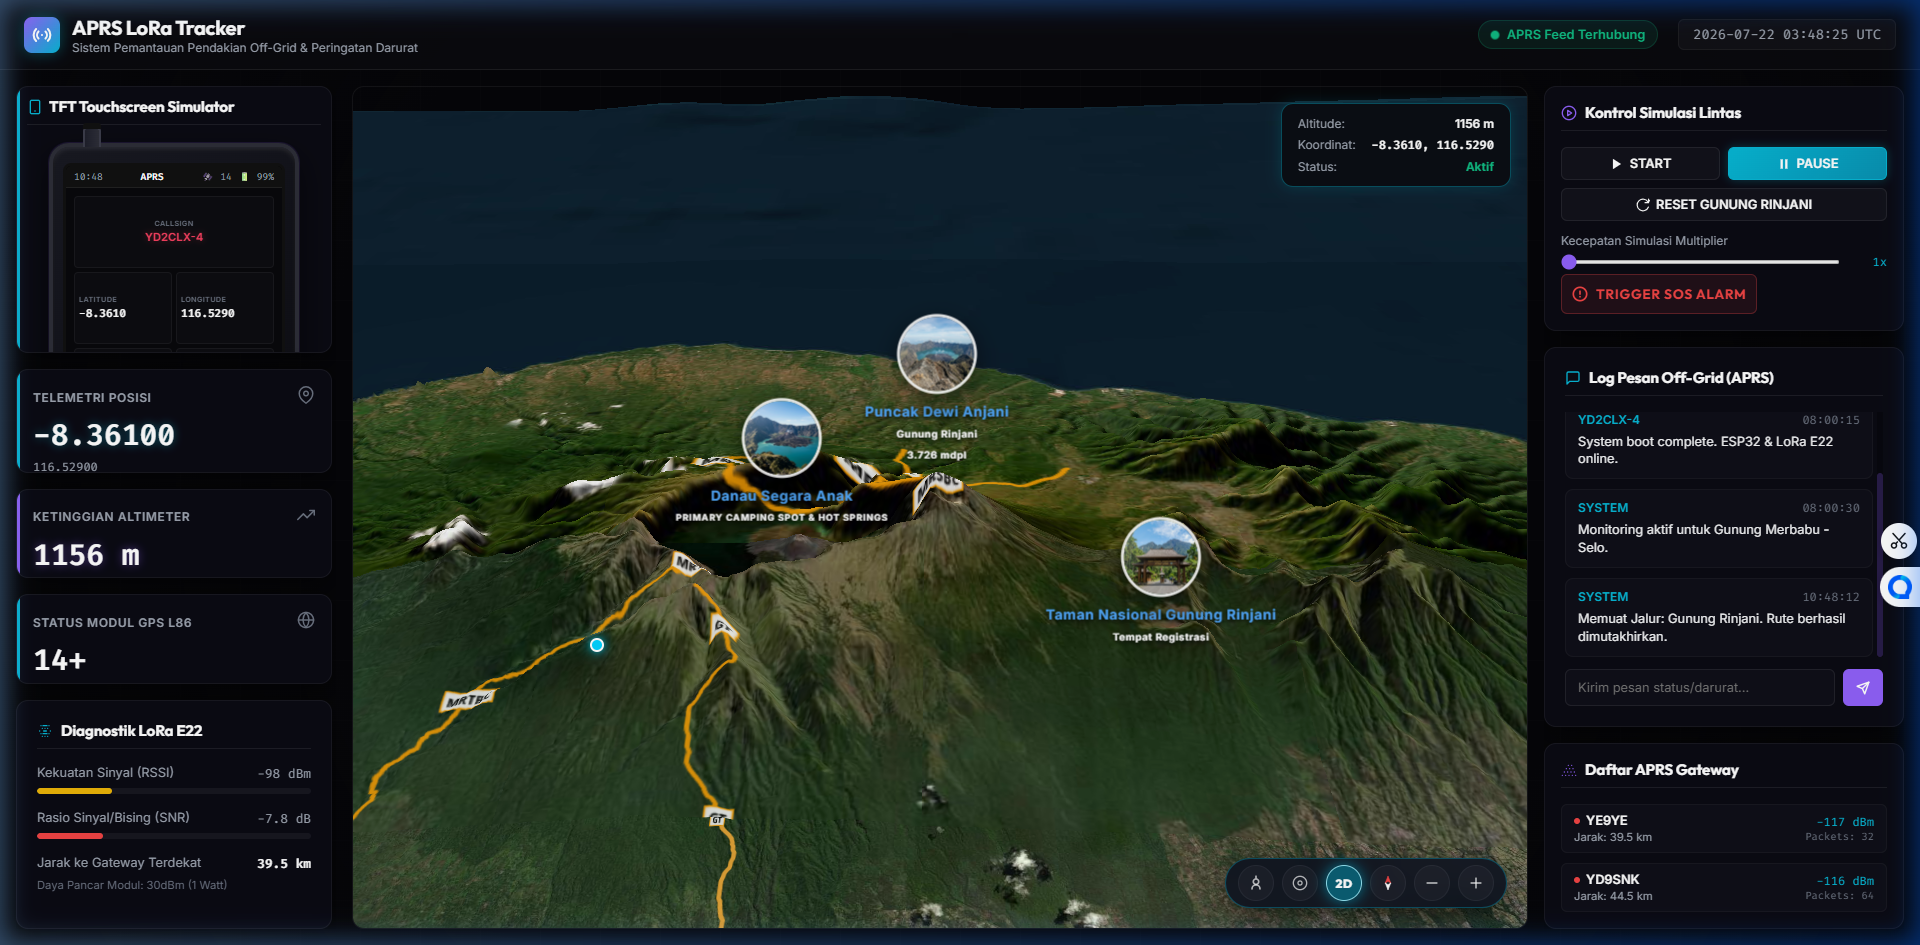
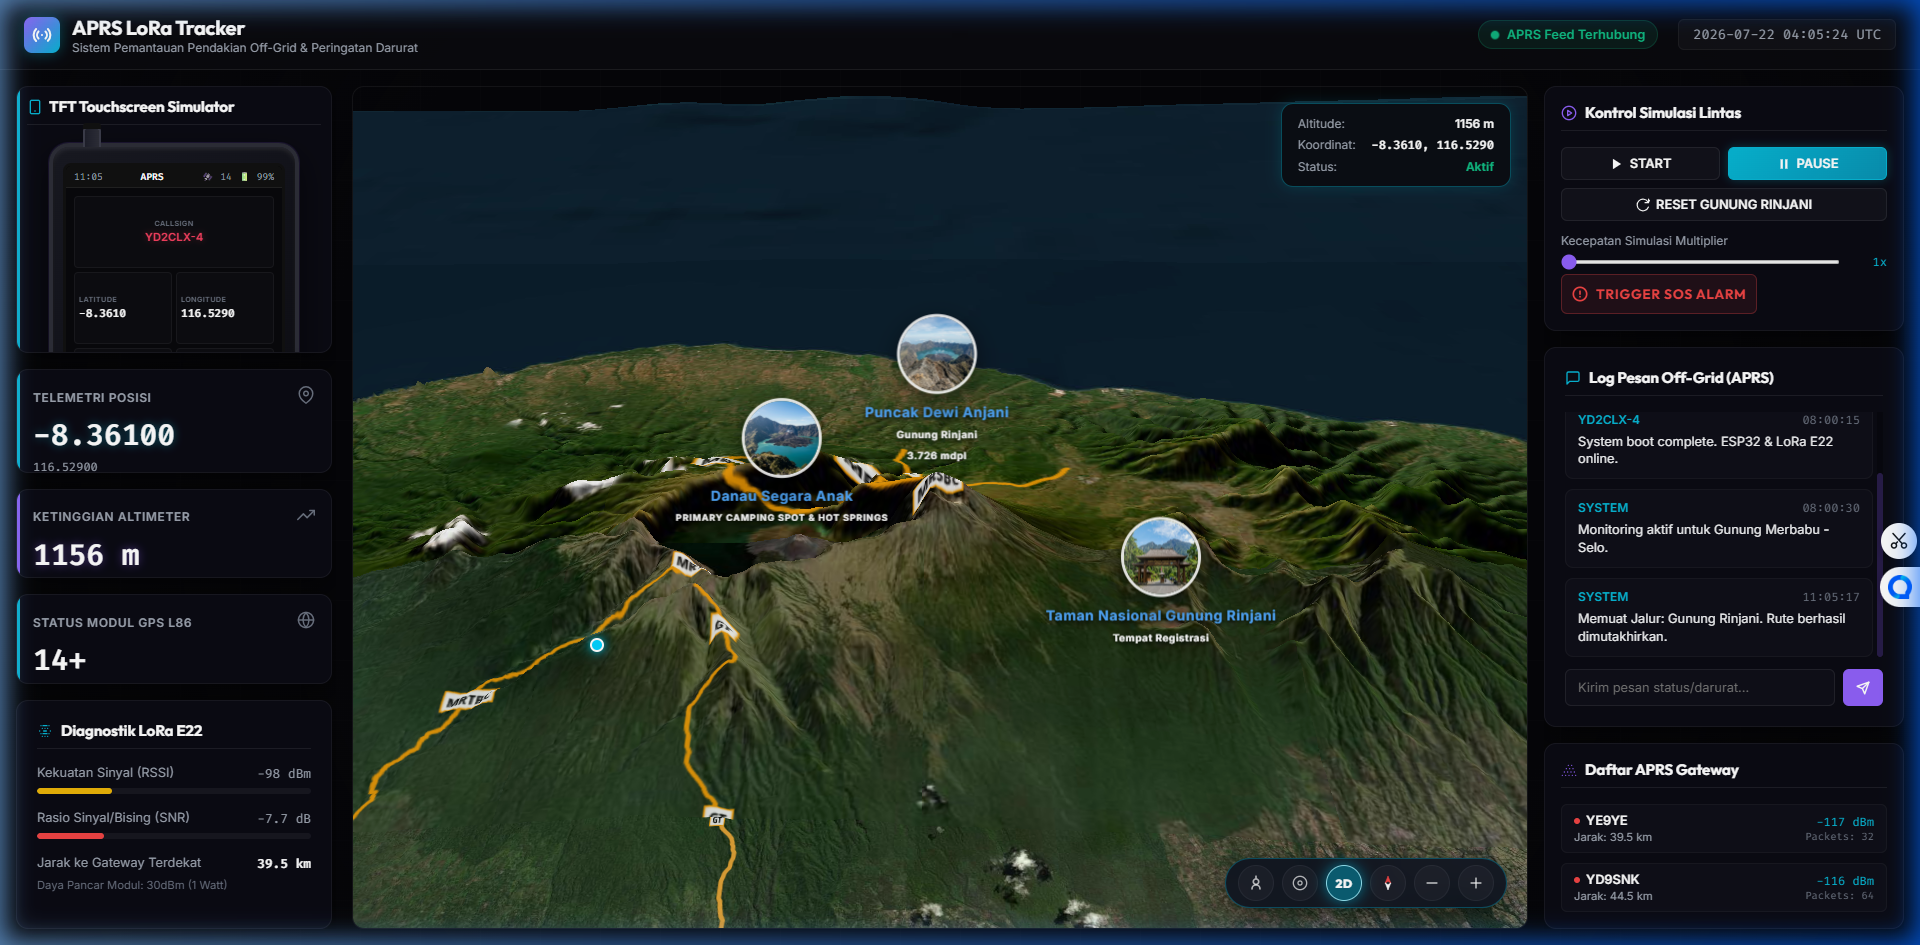
feat: add correct high resolution Rinjani gate image to project and fix caching

diff --git a/app.js b/app.js
@@ -724,7 +724,7 @@ function drawRegistrationMarker() {
         <div style="display: flex; flex-direction: column; align-items: center; justify-content: center; text-align: center; transform: translateY(-10px);">
           <!-- Glossy bubble round image -->
           <div style="position: relative; width: 80px; height: 80px; border-radius: 50%; border: 3px solid rgba(255, 255, 255, 0.9); box-shadow: 0 8px 24px rgba(0,0,0,0.5), inset 0 2px 4px rgba(255,255,255,0.4); overflow: hidden;">
-            <img src="rinjani_gate.png" style="width: 100%; height: 100%; object-fit: cover;" alt="Rinjani Entrance Gate">
+            <img src="rinjani_gate.png?v=114" style="width: 100%; height: 100%; object-fit: cover;" alt="Rinjani Entrance Gate">
             <!-- Glossy overlay reflection -->
             <div style="position: absolute; top: 0; left: 0; width: 100%; height: 100%; background: linear-gradient(135deg, rgba(255,255,255,0.4) 0%, rgba(255,255,255,0) 50%); pointer-events: none;"></div>
           </div>

diff --git a/index.html b/index.html
@@ -419,6 +419,6 @@
   
   
   <!-- Local Javascript logic -->
-  <script src="app.js?v=112"></script>
+  <script src="app.js?v=114"></script>
 </body>
 </html>